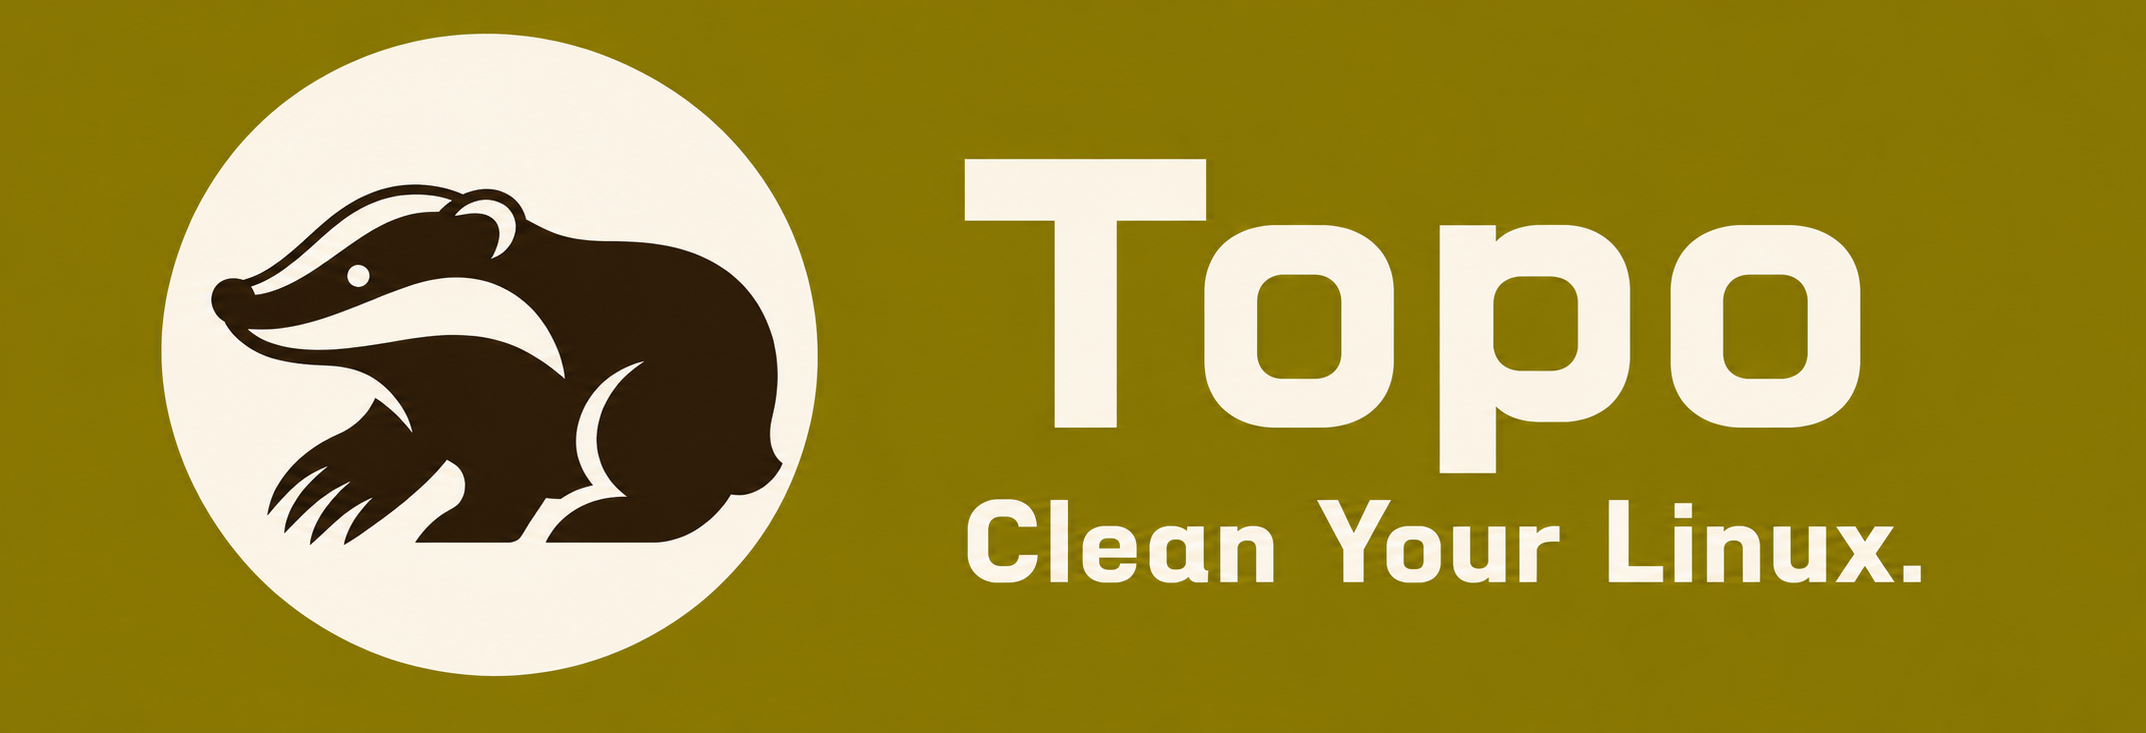
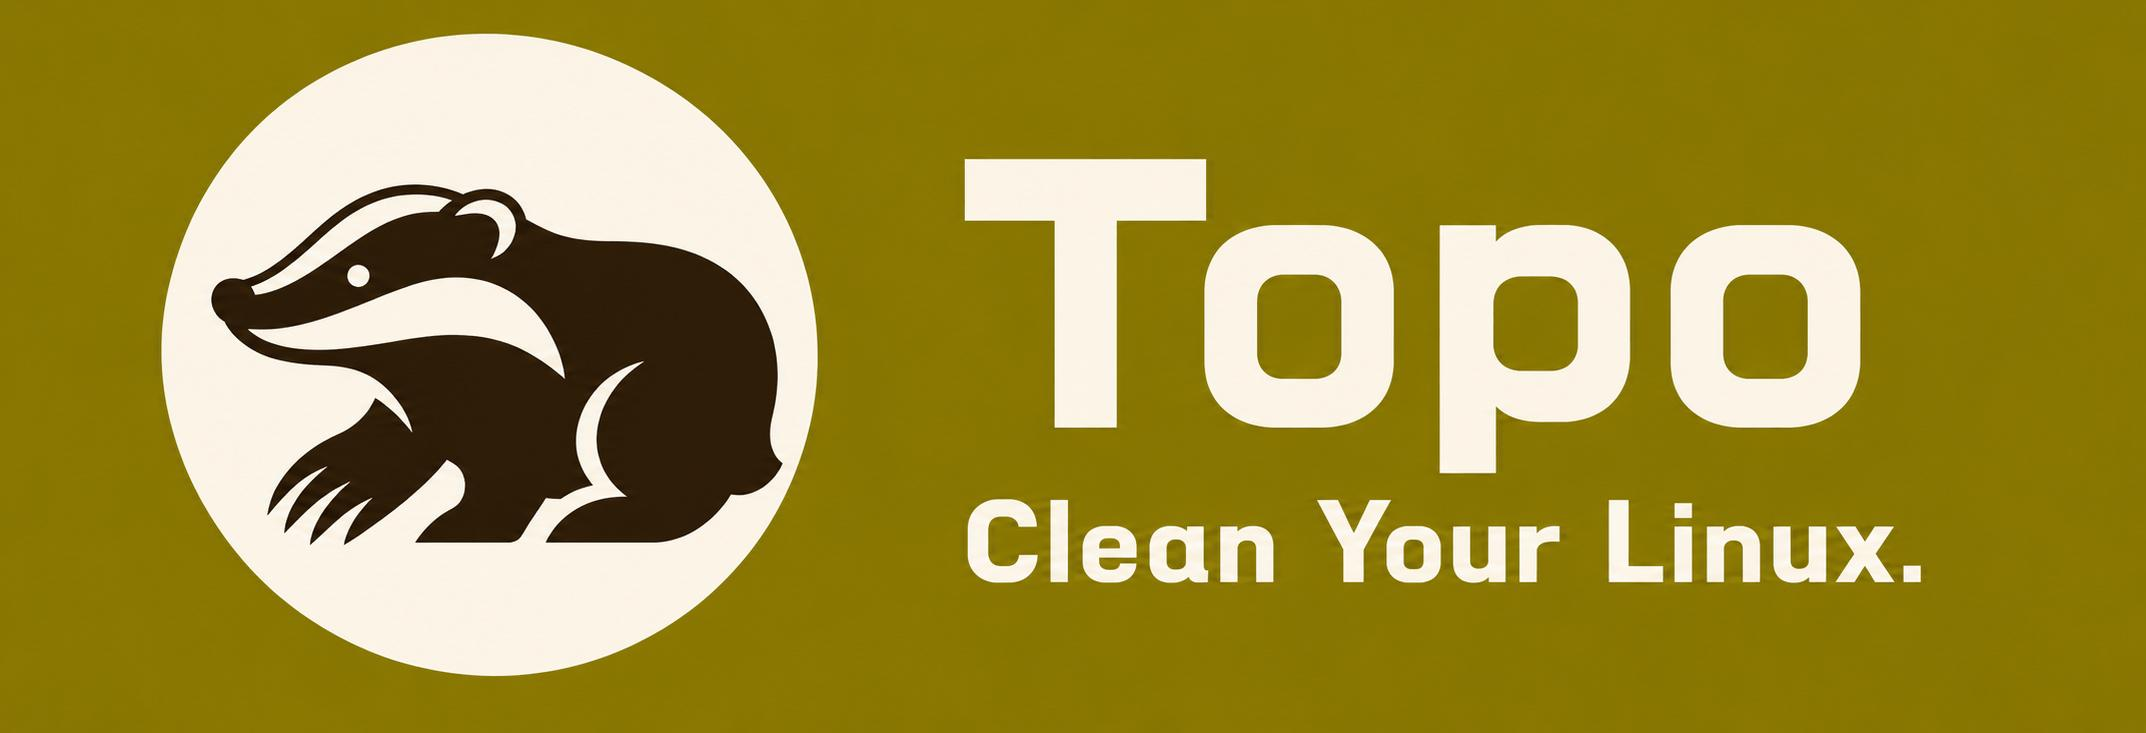
Instead assets of pics and update README.md

Changed region(s): [[0.4995, 0.7203, 0.5308, 0.7503]]

diff --git a/README.md b/README.md
@@ -36,25 +36,28 @@ curl -fsSL https://raw.githubusercontent.com/Jesencloud/Topo/main/install.sh | b
 
 > Note: The script automatically detects your architecture (**x86_64** or **ARM64**) and provisions the optimized engine.
 
-**Run**
 <p align="center">
   <img src="assets/topo_home.png" alt="Topo - Clean Your Linux" width="800" />
 </p>
 
-```bash
-topo                           # Start interactive TUI (Recommended)
-topo clean                     # One-key safe cleanup
-topo uninstall                 # Deep application uninstaller
-topo optimize                  # Refresh system services & maintenance
-topo analyze                   # Ultra-fast disk usage explorer
-topo status                    # Live system health dashboard
-topo history                   # Show recent cleanup/deletion history
-topo history --limit 5         # Show the latest 5 history sessions
+## Run 
 
-topo update                    # Upgrade Topo to the latest version
-topo link                      # Re-configure system-wide command
-topo remove                    # Safely remove Topo from system
-topo --help                    # Show help
+```bash
+  topo                 Start interactive TUI (Recommended)
+  topo clean           Run one-key safe cleanup
+  topo analyze         Start interactive disk usage explorer
+  topo status          Check system health and metrics
+  topo history         Show recent cleanup deletion history
+  topo history --limit 5  Show latest 5 history sessions
+  topo update          Upgrade to the latest version
+  topo whitelist list  View currently protected paths
+  topo --dry-run clean Preview files to be cleaned without deleting
+
+options:
+  -h, --help   show this help message and exit
+  --dry-run    Preview changes without deleting
+  --version    show program's version number and exit
+
 ```
 
 ## Security & Safety Design
@@ -68,11 +71,14 @@ It adopts a **Zero-Interruption** policy: administrative tasks are pre-authorize
 ### Deep System Cleanup
 
 ```bash
-$ topo clean
-[EXECUTING] Starting system cleanup...
+Clean Your Linux
 
- 🔒 Authorizing system-level tasks (Ctrl+C to cancel)...
+● Use --dry-run to preview, --whitelist to manage protected paths
+➔ System caches need sudo. Enter continue, Space skip: 
+➔ System cleanup requires admin access
+➔ Password: 
  ✓ Authorization successful.
+
 
 ➤ System & Package Manager
   ✓ Cleaned DNF cache (1.2 GB)
@@ -98,24 +104,28 @@ Free space now: 482.2 GB
 Select apps to remove and Topo will find all associated residues.
 
 ```bash
-Select Application to Uninstall
---------------------------------------------------------------------------------
-  [1] google-chrome-stable                          4.0 GB | 5d ago
-  [2] cursor                                        1.0 GB | Yesterday
-  [3] net.thunderbird.Thunderbird                 871.2 MB | 4d ago
-  [4] wechat                                      750.6 MB | 0y ago
-  [✓] brave-browser                               449.1 MB | 5d ago
-▶ [✓] org.telegram.desktop                        351.5 MB | 4d ago
-  [7] libreoffice-core                            302.3 MB | 2d ago
-  [8] ibus                                        221.8 MB | 0y ago
-  [9] clash-verge                                 182.0 MB | 0y ago
-  [0] gnome-software                              128.0 MB | 0y ago
---------------------------------------------------------------------------------
- Page 1/8 | Space: Select | Enter: Confirm | S/N/T/O: Sort ↓ | ESC: Exit
+ Select Application to Remove 2/54 selected
 
- ☉ Selected Apps to Remove:
-   • brave-browser
-   • org.telegram.desktop
+  ○  1. cursor                                  837.1 MiB | 2d ago
+  ○  2. wechat                                  715.8 MiB | Just now
+▶ ✓  3. brave-browser                           428.7 MiB | 4d ago
+  ○  4. google-chrome-stable                    404.0 MiB | 4d ago
+  ✓  5. Thunderbird                              368.7 MB | 13d ago
+  ○  6. java-25-openjdk-headless                236.8 MiB | 20d ago
+  ○  7. clash-verge                             235.8 MiB | 6d ago
+  ○  8. glibc-all-langpacks                     227.2 MiB | 20d ago
+  ○  9. rust-std-static                         162.7 MiB | 6d ago
+  ○ 10. llvm-libs                               140.5 MiB | 4d ago
+  ○ 11. cldr-emoji-annotation                   122.4 MiB | 1mo ago
+  ○ 12. gcc                                     120.8 MiB | 14d ago
+  ○ 13. libreoffice-calc                         27.4 MiB | 11d ago
+  ○ 14. orca                                     22.2 MiB | 20d ago
+  ○ 15. papers                                   14.6 MiB | 20d ago
+
+ Page 1/4 | ↑↓←→ | A: All | N: Name | S: Size ↓ | T: Time | Space: Select
+
+ ☉ Selected Apps to Remove: Press Enter to Uninstall, ESC to Exit
+   • brave-browser                         • Thunderbird           
 ```
 
 ### Cleanup History
@@ -124,11 +134,15 @@ Topo records cleanup and uninstall deletion events so you can review what change
 
 ```bash
 $ topo history --limit 5
+topo 0.8.0 (Python Edition)
+System: fedora
 Deletion History
-------------------------------------------------------------------------
-2026-05-31T12:30:00+08:00 -> 2026-05-31T12:30:04+08:00  clean
-  removed=4  trashed=0  skipped=1  failed=0  size=512.0 MiB
-    deleted              /home/user/.cache/example
+
[phone redacted]-04T18:17:03+08:00 -> 2026-06-04T18:17:05+08:00  uninstall wechat
+  removed=2  trashed=0  skipped=0  failed=0  size=820.4 MiB
+    removed              wechat
+    deleted              /home/users/.xwechat
+
 ```
 
 ### Intelligence Analyze
@@ -136,18 +150,31 @@ Deletion History
 Powered by a dedicated Rust engine, Topo scans hundreds of thousands of files in milliseconds.
 
 ```bash
-Analyze Disk
-Select a category to explore:
+Exploring: /home/users/.config/Cursor
 
-▶   1. ▬▬▬▬▬▬▬▬▬▬▬▬▬▬▬▬▬▬▬▬  100.0%  |  📁 Root (/)                                          23.5 GB
-    2. ▬▬▬▬▬▬▬▬▬▬▬▬▬▬▬▬▬▬▬▬   35.7%  |  📁 System                                             8.4 GB
-    3. ▬▬▬▬▬▬▬▬▬▬▬▬▬▬▬▬▬▬▬▬    7.3%  |  📁 Home                                               1.7 GB
-    4. ▬▬▬▬▬▬▬▬▬▬▬▬▬▬▬▬▬▬▬▬    0.8%  |  👀 System Logs                                      189.8 MB
-    5. ▬▬▬▬▬▬▬▬▬▬▬▬▬▬▬▬▬▬▬▬    0.1%  |  👀 Cargo Cache                                       30.8 MB
-    6. ▬▬▬▬▬▬▬▬▬▬▬▬▬▬▬▬▬▬▬▬    0.0%  |  📁 Applications                                       1.3 MB
+Select a location to explore (Type numbers or Space to select):
 
-------------------------------------------------------------------------------------------------------------
- ↑↓←→ | Num Select | Space Select | A All | ← Back | Enter Open | F Folder | L Largest | Del Delete | R Refresh | S Sort ↓ | ESC Exit
+  ○  1. ▬▬▬▬▬▬▬▬▬▬▬▬▬▬▬▬▬▬▬▬   59.9%  📁 WebStorage                     |  109.4 MiB
+  ○  2. ▬▬▬▬▬▬▬▬▬▬▬▬▬▬▬▬▬▬▬▬   11.5%  📁 CachedExtensionVSIXs           |   21.0 MiB
+  ✓  3.  ▬▬▬▬▬▬▬▬▬▬▬▬▬▬▬▬▬▬▬▬    6.8%  📁 Cache                          |   12.4 MiB
+  ○  4. ▬▬▬▬▬▬▬▬▬▬▬▬▬▬▬▬▬▬▬▬    5.6%  📁 User                           |   10.3 MiB
+  ○  5. ▬▬▬▬▬▬▬▬▬▬▬▬▬▬▬▬▬▬▬▬    5.3%  📁 CachedData                     |    9.7 MiB
+  ○  6. ▬▬▬▬▬▬▬▬▬▬▬▬▬▬▬▬▬▬▬▬    4.3%  📁 GPUCache                       |    7.9 MiB
+▶ ✓  7.  ▬▬▬▬▬▬▬▬▬▬▬▬▬▬▬▬▬▬▬▬    1.6%  📁 logs                           |    2.8 MiB
+  ○  8. ▬▬▬▬▬▬▬▬▬▬▬▬▬▬▬▬▬▬▬▬    1.1%  📁 clp                            |    2.0 MiB
+  ○  9. ▬▬▬▬▬▬▬▬▬▬▬▬▬▬▬▬▬▬▬▬    0.9%  📁 Partitions                     |    1.7 MiB
+  ○ 10. ▬▬▬▬▬▬▬▬▬▬▬▬▬▬▬▬▬▬▬▬    0.9%  📁 process-monitor                |    1.6 MiB
+  ○ 11. ▬▬▬▬▬▬▬▬▬▬▬▬▬▬▬▬▬▬▬▬    0.6%  📁 CachedProfilesData             |    1.1 MiB
+  ○ 12. ▬▬▬▬▬▬▬▬▬▬▬▬▬▬▬▬▬▬▬▬    0.4%  📁 Local Storage                  |  789.5 KiB
+  ○ 13. ▬▬▬▬▬▬▬▬▬▬▬▬▬▬▬▬▬▬▬▬    0.3%  📁 DawnWebGPUCache                |  544.4 KiB
+  ○ 14. ▬▬▬▬▬▬▬▬▬▬▬▬▬▬▬▬▬▬▬▬    0.3%  📁 DawnGraphiteCache              |  544.4 KiB
+  ○ 15. ▬▬▬▬▬▬▬▬▬▬▬▬▬▬▬▬▬▬▬▬    0.2%  📁 Dictionaries                   |  441.4 KiB
+
+
+  Page 1/3 | ↑↓←→ | A:All | F:Open Folder | R:Reload | S:Sort ↓ | Space:Select
+
+ ☉ Selected Items to Remove: Enter:Delete
+   • 📁 Cache                                 • 📁 logs
 ```
 
 ## Technical Advantages